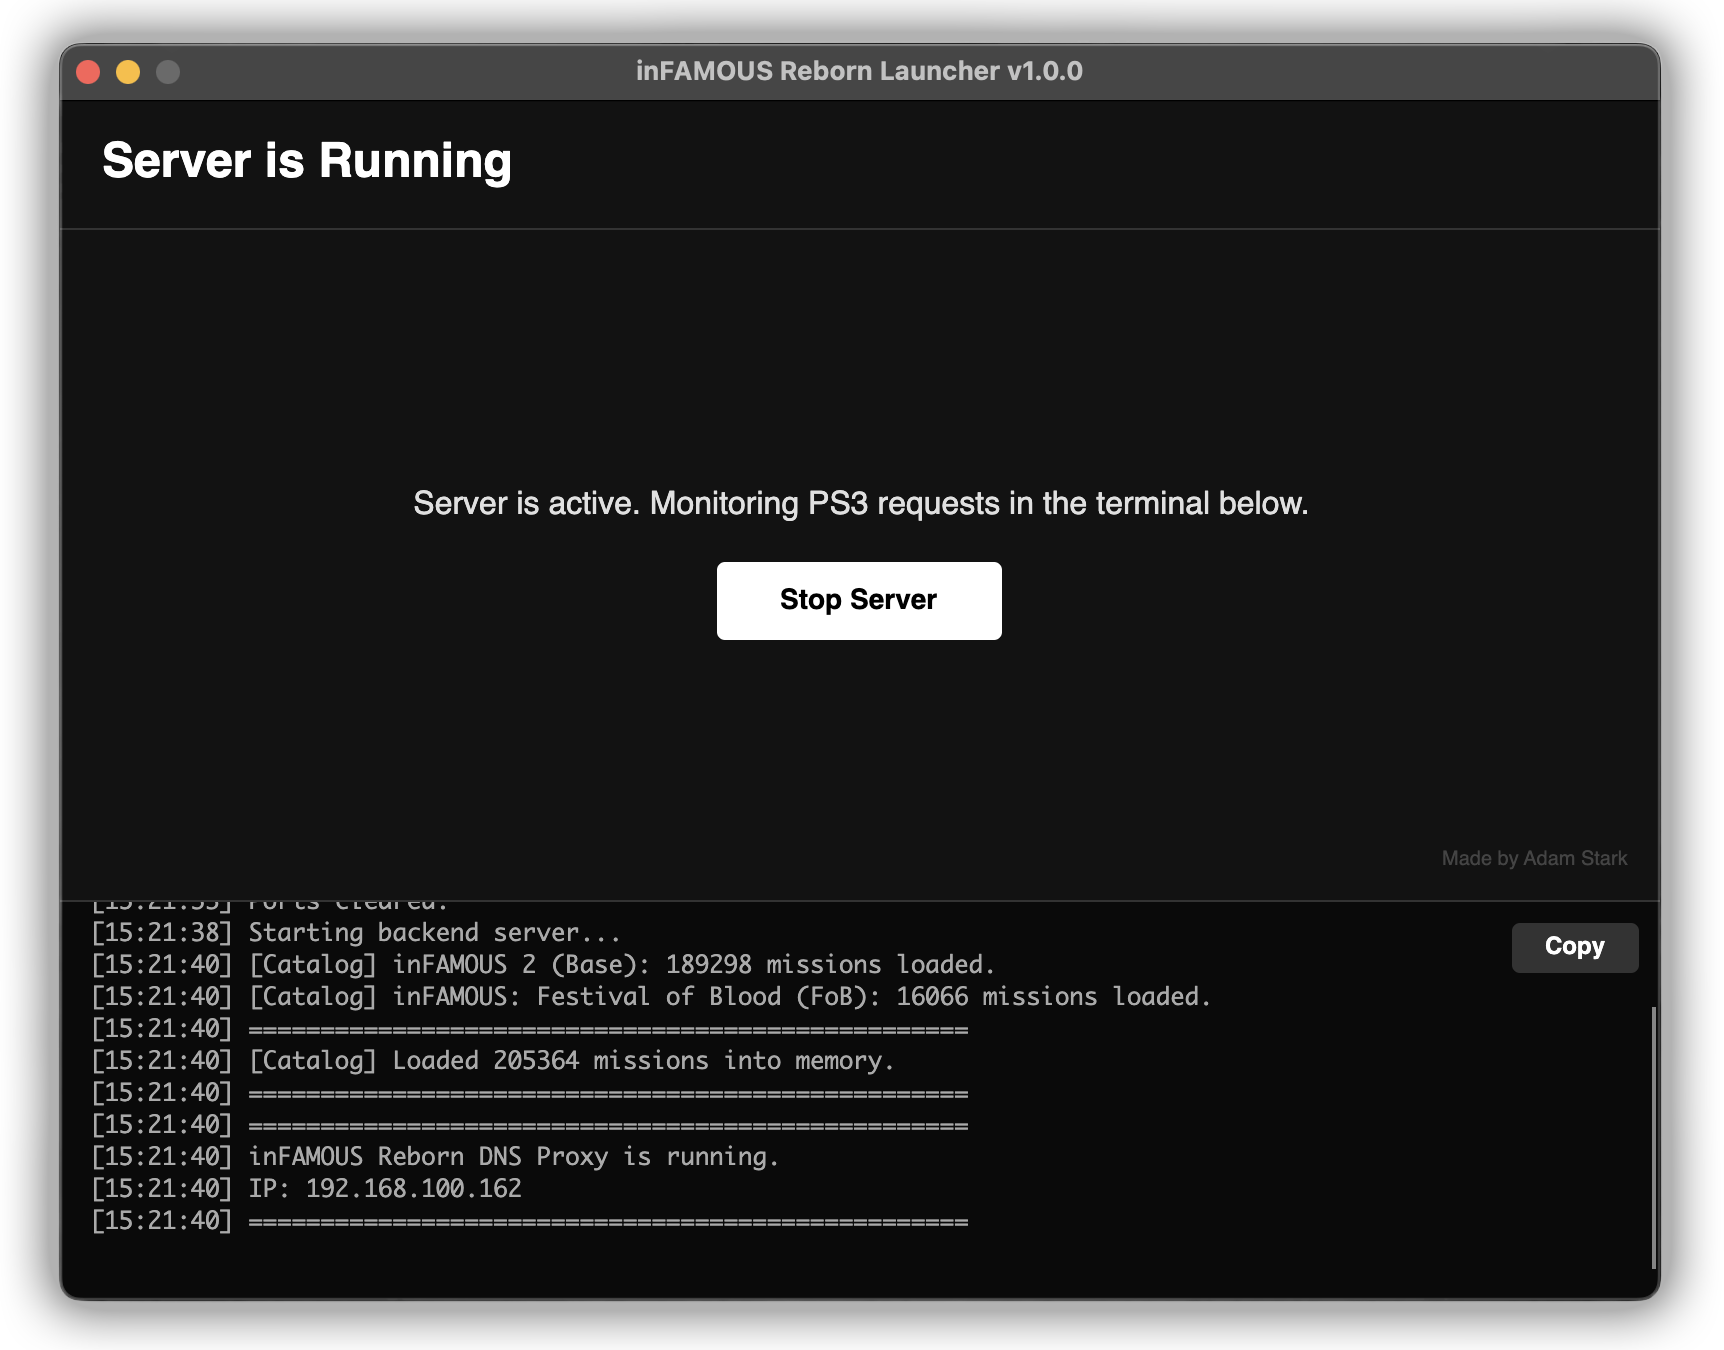
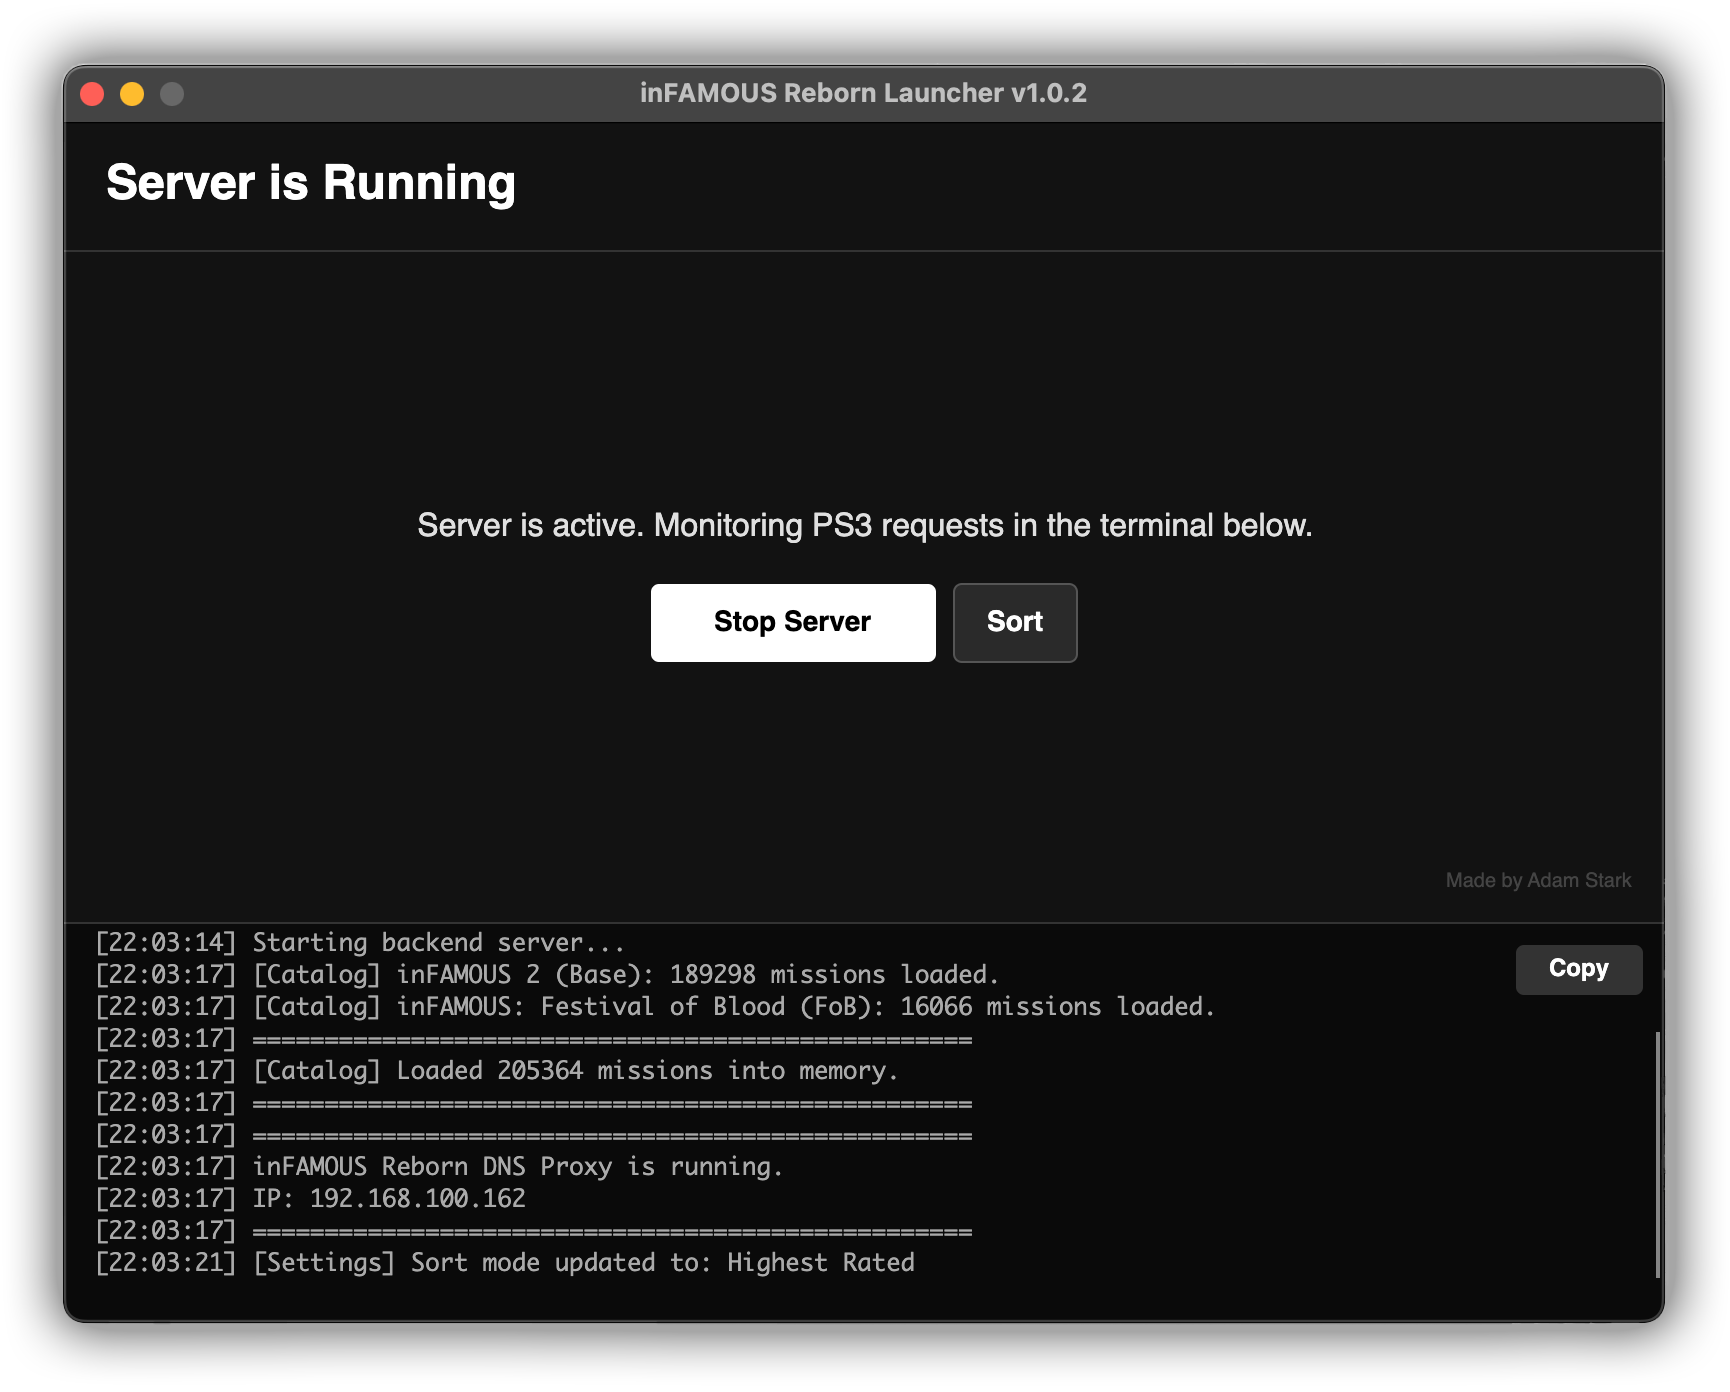
chore: update README.

Changed region(s): [[0.0307, 0.0, 0.9838, 0.9956], [0.2459, 0.3422, 0.7686, 0.4978], [0.953, 0.1556, 0.9838, 0.1867]]

diff --git a/README.md b/README.md
@@ -12,7 +12,7 @@ These screenshots are from inFAMOUS 2. I achieved the same result for inFAMOUS: 
 
 ## Download
 **Please leave a star ⭐ if you found this repository helpful!**  
-📅 **13/09/2026:** Release 1.0.1 is here!
+📅 **14/09/2026:** Release 1.0.2 is here!
 
 You can download the compiled versions for your operating system here:  
 **[Download Latest Release.](https://github.com/adamstark1/inFAMOUS-Reborn-PS3/releases)**
